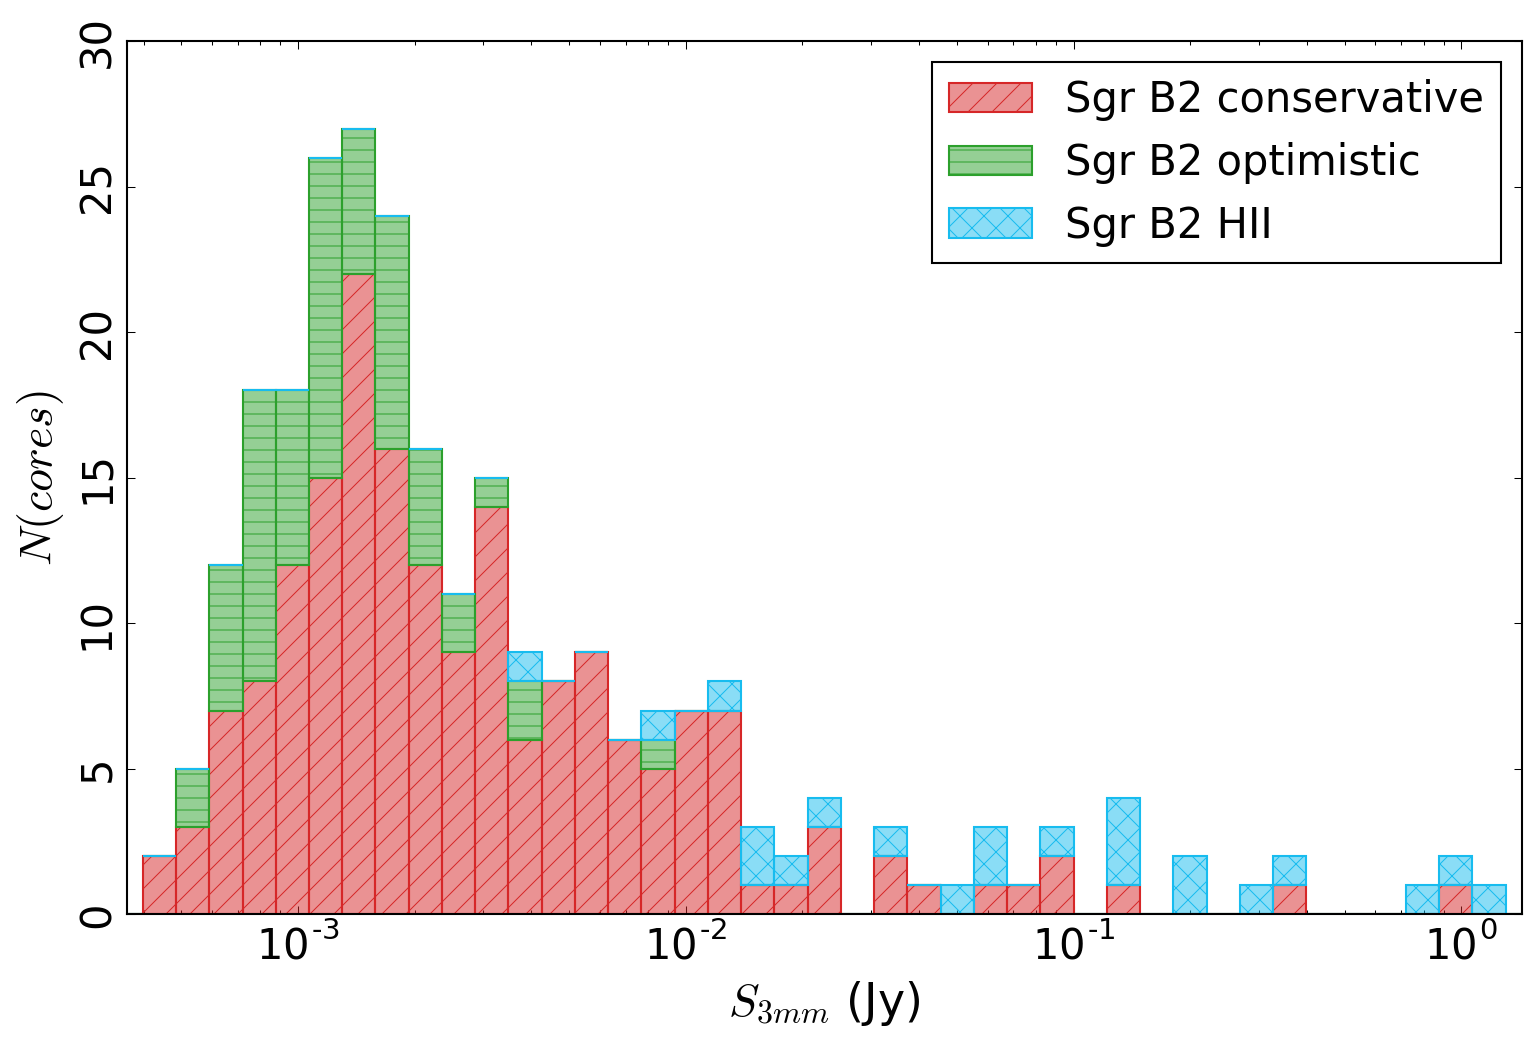
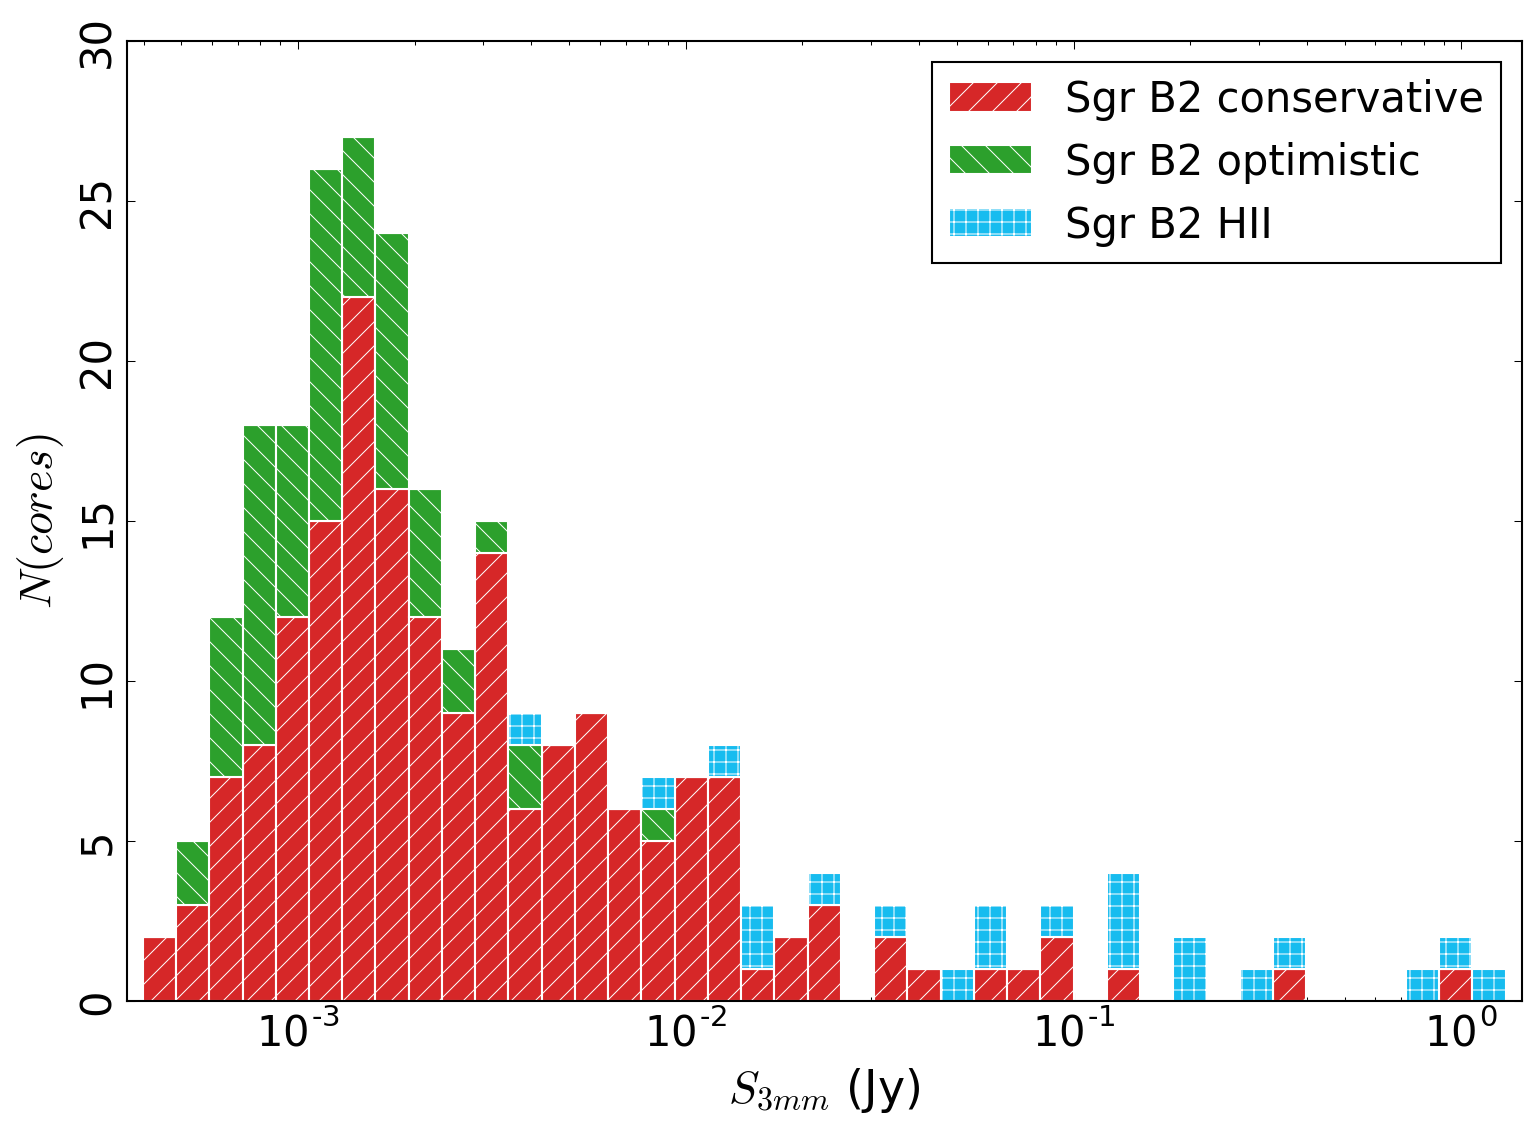
update several figures and some corresponding text; the caveats I had previously included are no longer relevant for the alpha histogram (which is a little bit worrying)

diff --git a/plot_codes/core_table_plots.py b/plot_codes/core_table_plots.py
@@ -164,20 +164,21 @@ hs,l,p = ax5.hist([core_phot_tbl['alpha'][highconf & ~hii & alphaok_mask],
                   label=['Sgr B2 conservative','Sgr B2 optimistic',
                          'Sgr B2 HII'],
                   color=['#d62728','#2ca02c','#17bcef'],
-                  bins=np.linspace(-3.0, 5, 20),
+                  bins=np.linspace(-3.0, 5, 33),
                   edgecolor='w',
                   rwidth=1,
                   stacked=True,
                   histtype='barstacked')
 (hh,hl,hhii) = hs
 assert hhii.sum() == alphaok_mask.sum()
-for pc, hatch in zip(p, ['/','-','x']):
+for pc, hatch in zip(p, ['/','\\','+']):
     for patch in pc:
         patch.set_hatch(hatch)
-        color = patch.get_facecolor()
-        patch.set_edgecolor(color)
-        color = (*color[:3], 0.5)
-        patch.set_facecolor(color)
+        patch.set_edgecolor('w')
+        #color = patch.get_facecolor()
+        #patch.set_edgecolor(color)
+        #color = (*color[:3], 0.5)
+        #patch.set_facecolor(color)
 
 #ax5.set_xscale('log')
 ax5.set_xlim(l[:-1][hh>0].min()*1.1, l[1:][hh>0].max()*1.1)
@@ -188,6 +189,7 @@ pl.setp(ax5.get_yticklabels(), rotation='vertical', fontsize=20)
 ax5.set_xlabel("Spectral Index $\\alpha$", fontsize=22)
 ax5.set_ylabel("$N(cores)$", fontsize=22)
 pl.legend(loc='best', fontsize=20)
+pl.legend(loc='upper left', fontsize=20)
 pl.savefig(paths.fpath("core_alpha_coloredbyclass.png"), bbox_inches='tight')
 
 
@@ -208,13 +210,14 @@ hs,l,p = ax6.hist([core_phot_tbl['peak'][highconf & ~hii & alphaok_mask],
                   histtype='barstacked')
 (hh,hl,hhii) = hs
 assert hhii.sum() == alphaok_mask.sum()
-for pc, hatch in zip(p, ['/','-','x']):
+for pc, hatch in zip(p, ['/','\\','+']):
     for patch in pc:
         patch.set_hatch(hatch)
-        color = patch.get_facecolor()
-        patch.set_edgecolor(color)
-        color = (*color[:3], 0.5)
-        patch.set_facecolor(color)
+        patch.set_edgecolor('w')
+        #color = patch.get_facecolor()
+        #patch.set_edgecolor(color)
+        #color = (*color[:3], 0.5)
+        #patch.set_facecolor(color)
 
 ax6.set_xscale('log')
 ax6.set_xlim(l[:-1][hh>0].min()/1.1, l[1:][hh>0].max()*1.1)

diff --git a/plot_codes/HOPS_core_plots.py b/plot_codes/HOPS_core_plots.py
@@ -58,13 +58,14 @@ hs,l,p = ax1.hist([core_phot_tbl['peak'][highconf & ~hii],
                   histtype='barstacked',
                   bins=np.logspace(-4,0.2,50))
 (hh,hl,hhii) = hs
-for pc, hatch in zip(p, ['/','-','x']):
+for pc, hatch in zip(p, ['/','\\','+']):
     for patch in pc:
         patch.set_hatch(hatch)
-        color = patch.get_facecolor()
-        patch.set_edgecolor(color)
-        color = (*color[:3], 0.5)
-        patch.set_facecolor(color)
+        patch.set_edgecolor('w')
+        #color = patch.get_facecolor()
+        #patch.set_edgecolor(color)
+        #color = (*color[:3], 0.5)
+        #patch.set_facecolor(color)
 
 
 hs,l,p = ax1.hist([flux_3mm_cmz[class0],
@@ -78,13 +79,14 @@ hs,l,p = ax1.hist([flux_3mm_cmz[class0],
                   rwidth=1,
                   stacked=True,
                   bins=np.logspace(-7,-3.5,50), histtype='barstacked')
-for pc, hatch in zip(p, ['\\','|','+']):
+for pc, hatch in zip(p, ['-','.','x']):
     for patch in pc:
         patch.set_hatch(hatch)
-        color = patch.get_facecolor()
-        patch.set_edgecolor(color)
-        color = (*color[:3], 0.5)
-        patch.set_facecolor(color)
+        patch.set_edgecolor('w')
+        #color = patch.get_facecolor()
+        #patch.set_edgecolor(color)
+        #color = (*color[:3], 0.5)
+        #patch.set_facecolor(color)
 
 
 ylim = ax1.get_ylim()
@@ -120,13 +122,14 @@ hs,l,p = ax2.hist([sn[highconf & ~hii],
                          'Sgr B2 HII'],
                   color=['#d62728','#2ca02c','#17bcef'],
                   bins=np.logspace(0,2,50), histtype='barstacked')
-for pc, hatch in zip(p, ['/','-','x']):
+for pc, hatch in zip(p, ['/','\\','+']):
     for patch in pc:
         patch.set_hatch(hatch)
-        color = patch.get_facecolor()
-        patch.set_edgecolor(color)
-        color = (*color[:3], 0.5)
-        patch.set_facecolor(color)
+        patch.set_edgecolor('w')
+        #color = patch.get_facecolor()
+        #patch.set_edgecolor(color)
+        #color = (*color[:3], 0.5)
+        #patch.set_facecolor(color)
 ax2.set_xscale('log')
 ax2.set_xlabel("S/N", fontsize=12)
 ax2.set_ylabel("$N(cores)$", fontsize=12)

diff --git a/tex_cores/sgrb2_cores.tex b/tex_cores/sgrb2_cores.tex
@@ -520,19 +520,20 @@ at a comparable resolution will be needed to rule out the externally ionized
 globule hypothesis for the resolved regions within our sample, but the unresolved
 sources are unlikely to be frEGGs.
 
-
+% core_table_plots
 \FigureOneCol{figures/core_alpha_coloredbyclass.png}
 {A histogram of the spectral index $\alpha$ for those sources with a statistically
 significant measurement.  The \hii regions cluster around $\alpha=0$, as expected
 for optically thin free-free emission, while the unclassified sources cluster
-around $\alpha=3$, which is weakly consistent with dust emission.
-There are two particularly notable outliers: the source with a highly negative
-spectral index, Source 167, has a statistically significant measurement but is
-in a region of particularly high extended and diffuse background, so the
-measurement may not be reliable.  The other unidentified source with $\alpha\sim-1$
-is Source 80, which is very close to the \hii region Sgr B2 S, but is not detected
-in the \citet{de-Pree1996a} 1.3 cm data; it may be an \hii region or it may
-be contaminated by the nearby \hii region.}
+around $\alpha=3.5$, which is  consistent with dust emission.
+%There are two particularly notable outliers: the source with a highly negative
+%spectral index, Source 167, has a statistically significant measurement but is
+%in a region of particularly high extended and diffuse background, so the
+%measurement may not be reliable.  The other unidentified source with $\alpha\sim-1$
+%is Source 80, which is very close to the \hii region Sgr B2 S, but is not detected
+%in the \citet{de-Pree1996a} 1.3 cm data; it may be an \hii region or it may
+%be contaminated by the nearby \hii region.
+}
 {fig:alphahist}{1}{0.5\textwidth}
 
 If the detected sources were either EGGs or cometary clouds, we would expect

diff --git a/tex_cores/continuum_photometry.tex b/tex_cores/continuum_photometry.tex
@@ -36,7 +36,7 @@ ID & Cluster & Classification & Coordinates & $S_{\nu,max}$ & $T_{B,max}$ & $S_{
 109 & N & S\_\_ - & 17:47:19.901 -28:22:15.54 & 24 & 13 & 41 & 13 & 3.6 & 0.3 & 410 & 4.7\ee{25} \\
 87 B9.99 & M & S\_\_ HII & 17:47:19.798 -28:23:06.942 & 23 & 12 & 37 & 1.9 & 0.89 & 0.042 & 390 & 4.4\ee{25} \\
 88 & M & S\_\_ - & 17:47:19.617 -28:23:08.26 & 23 & 12 & 34 & 2.9 & 3.1 & 0.18 & 380 & 4.3\ee{25} \\
-151 B10.06 & M & S\_M HII & 17:47:19.86 -28:23:01.5 & 21 & 11 & 31 & 1.3 & 0.19 & 0.79 & 350 & 3.8\ee{25} \\
+151 B10.06 & M & S\_M Maser & 17:47:19.86 -28:23:01.5 & 21 & 11 & 31 & 1.3 & 0.19 & 0.79 & 350 & 3.8\ee{25} \\
 98 & -- & S\_M Maser & 17:47:19.53 -28:22:32.55 & 18 & 9.5 & 29 & 0.36 & 3.2 & 1.1 & 300 & 3.3\ee{25} \\
 152 f10.32 & M & S\_\_ HII & 17:47:20.128 -28:23:00.22 & 16 & 8.5 & 27 & 3 & -0.3 & 0.26 & 270 & 2.9\ee{25} \\
 86 B9.96 & M & S\_\_ HII & 17:47:19.766 -28:23:10.183 & 16 & 8.3 & 24 & 1.8 & 1 & 0.089 & 270 & 2.9\ee{25} \\

diff --git a/tex_cores/cluster_mass_estimates.tex b/tex_cores/cluster_mass_estimates.tex
@@ -6,11 +6,11 @@
 Name & $N(cores)$ & $N(H\textsc{ii})$ & $M_{count}$ & $M_{inferred}$ & $M_{inferred, H\textsc{ii}}$ & $M_{inferred, cores}$ & $M_{count}^s$ & $M_{inf}^s$ & SFR \\
  &  &  & $\mathrm{M_{\odot}}$ & $\mathrm{M_{\odot}}$ & $\mathrm{M_{\odot}}$ & $\mathrm{M_{\odot}}$ & $\mathrm{M_{\odot}}$ & $\mathrm{M_{\odot}}$ & $\mathrm{M_{\odot}\,kyr^{-1}}$ \\
 \hline
-M & 20 & 51 & 2600 & 9700 & 17000 & 2700 & 1295 & 20700 & 13 \\
+M & 21 & 50 & 2500 & 9600 & 16000 & 2800 & 1295 & 20700 & 13 \\
 N & 12 & 7 & 460 & 2000 & 2300 & 1600 & 150 & 2400 & 2.6 \\
 NE & 4 & 2 & 140 & 600 & 650 & 540 & 52 & 1200 & 0.81 \\
 S & 5 & 1 & 110 & 500 & 330 & 680 & 50 & 1100 & 0.68 \\
-Total & 240 & 72 & 6100 & 28000 & 24000 & 33000 & 1993 & 33400 & 38 \\
+Total & 241 & 71 & 6100 & 28000 & 23000 & 33000 & 1993 & 33400 & 38 \\
 \hline
 \end{tabular}
 \par

diff --git a/analysis/core_flux_distributions.py b/analysis/core_flux_distributions.py
@@ -40,13 +40,14 @@ hs,l,p = ax1.hist([core_phot_tbl['peak'][highconf & ~hii],
                   stacked=True,
                   histtype='barstacked')
 (hh,hl,hhii) = hs
-for pc, hatch in zip(p, ['/','-','x']):
+for pc, hatch in zip(p, ['/','\\','+']):
     for patch in pc:
         patch.set_hatch(hatch)
-        color = patch.get_facecolor()
-        patch.set_edgecolor(color)
-        color = (*color[:3], 0.5)
-        patch.set_facecolor(color)
+        patch.set_edgecolor('w')
+        #color = patch.get_facecolor()
+        #patch.set_edgecolor(color)
+        #color = (*color[:3], 0.5)
+        #patch.set_facecolor(color)
 
 ax1.set_xscale('log')
 ax1.set_xlim(l[:-1][hh>0].min()/1.1, l[1:][(hh>0)|(hhii>0)].max()*1.1)
